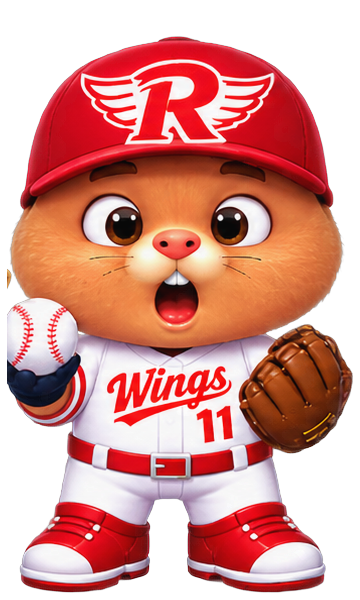
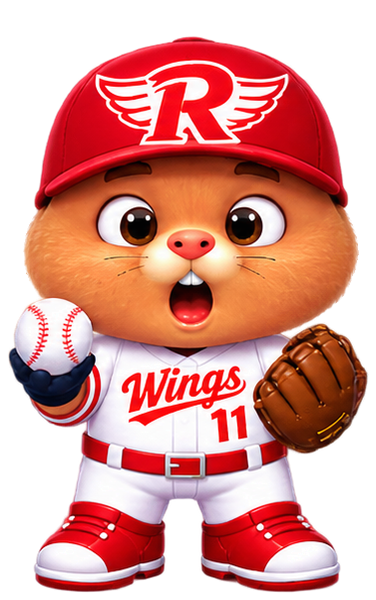
두더지팡: 코스튬 화면 정리(우측 테두리·상세 박스 꽉 채움·버튼 크기·토글 좌우 맞춤·캐릭 안 잘리게, 윙스 공 다시 오림), 토글 틈 없음·안쪽만 눌림 (v992)
Claude-Session: https://claude.ai/code/session_01GirAya7RX91uMc859bmUVe

diff --git a/mole/style.css b/mole/style.css
@@ -6466,9 +6466,17 @@ html, body, .cosmic-bg { background: #2a190d; }
 /* 토글버튼 = 나무 틀 + 초록 버튼, 선택 = 파란 네온 버튼 — 아이템·상점 공통(사용자 지정: "여기서 셋팅되면 다른곳도 동일") */
 .inv-tab, .shop-tab { border: 9px solid transparent !important; border-image: url('assets/costume2/tab-frame.png') 50 / 9px stretch !important; border-radius: 0;
   outline: none; box-shadow: none; overflow: visible; padding-top: 0; padding-bottom: 0;
-  background: url('assets/costume2/tab-green.png') center / calc(100% - 9px) calc(100% - 9px) no-repeat !important; background-origin: border-box !important; background-clip: border-box !important; }
-.inv-tabbar, .shop-tabbar { padding-top: 3px; padding-bottom: 3px; gap: 2px; }
-.inv-tab--on, .shop-tab--on { background-image: url('assets/costume2/tab-blue.png') !important; filter: drop-shadow(0 0 4px rgba(90, 200, 255, 0.9)); }
+  background: url('assets/costume2/tab-green.png') center / calc(100% - 4px) calc(100% - 4px) no-repeat, linear-gradient(180deg, #30ef6e, #04b954 55%, #037735) !important;
+  background-origin: border-box, padding-box !important; background-clip: border-box, padding-box !important; } /* 둥근 모서리 틈도 같은 색으로 꽉(v992) */
+.inv-tabbar, .shop-tabbar { padding-top: 3px; padding-bottom: 3px; gap: 0; }
+/* v992(사용자 지정): 누르면 나무 틀은 그대로, 안의 버튼만 눌림(작아지며 살짝 아래로) */
+.inv-tab, .shop-tab { transition: background-size 0.08s ease, background-position 0.08s ease !important; }
+.inv-tab:active, .shop-tab:active { transform: none !important; } /* v992: 버튼은 틀에 꽉 찬 채로 — 크기 안 줄이고 안쪽만 어둡게 눌림 */
+.inv-tab:active::before, .shop-tab:active::before { display: block; content: ''; position: absolute; inset: 0; left: 0; right: 0; top: 0; height: auto; z-index: 1; pointer-events: none;
+  border-radius: 0; background: rgba(0, 0, 0, 0.16); box-shadow: inset 0 5px 7px rgba(0, 0, 0, 0.45); }
+.inv-tab > *, .shop-tab > * { transition: transform 0.08s ease; }
+.inv-tab:active > *, .shop-tab:active > * { transform: translateY(2px) scale(0.92); }
+.inv-tab--on, .shop-tab--on { background-image: url('assets/costume2/tab-blue.png'), linear-gradient(180deg, #02c1fc, #0071fb 55%, #0049fb) !important; filter: drop-shadow(0 0 4px rgba(90, 200, 255, 0.9)); }
 .inv-tab::before, .shop-tab::before, .inv-tab::after, .shop-tab::after { display: none; }
 /* 코스튬 탭 배경 = 나무 오두막(선반·랜턴·모자·야구공) */
 #inventory-screen[data-tab="costume"]::before { inset: 0; border-image: none; border-width: 0; background: url('assets/costume2/bg-cabin.jpg') center top / 100% 100% no-repeat; filter: none; }
@@ -6489,12 +6497,18 @@ html, body, .cosmic-bg { background: #2a190d; }
 /* 상세: 왼쪽 = 나무 틀 + 팀 경기장 + 캐릭터, 오른쪽 = 나뭇잎 나무 틀 + 가죽 */
 #inventory-screen[data-tab="costume"] .cos-detail { position: relative; background: none; border: 0; box-shadow: none; border-radius: 0; gap: 0; padding: 0; min-height: 30%; }
 #inventory-screen[data-tab="costume"] .cos-detail::before { content: ''; position: absolute; left: 29%; right: 0; top: 0; bottom: 0; z-index: 0;
-  border: 12px solid transparent; border-image: url('assets/costume2/box-frame-w.png') 60 / 12px stretch;
-  background: url('assets/costume2/leather-w.png') center / 100% 100% no-repeat; background-clip: padding-box; }
+  border: 12px solid transparent; border-image: url('assets/costume2/box-frame-s.png') 50 / 12px stretch; /* v992: 잎 달린 틀은 오른쪽 변에 잎이 길게 늘어나서 → 잎 없는 틀 + 잎 따로 */
+  background: url('assets/costume2/leather-w.png') center / calc(100% - 10px) calc(100% - 10px) no-repeat; background-origin: border-box; background-clip: border-box; }
+#inventory-screen[data-tab="costume"] .cos-detail::after { content: ''; position: absolute; left: 29%; right: 0; top: 0; bottom: 0; z-index: 2; pointer-events: none;
+  background: url('assets/costume2/leaf-a.png') left 3px top 3px / 24px auto no-repeat, url('assets/costume2/leaf-b.png') right 2px top 2px / 24px auto no-repeat; }
 #inventory-screen[data-tab="costume"] .cos-detail > * { position: relative; z-index: 1; }
-#inventory-screen[data-tab="costume"] .cos-detail-char-wrap { width: 28%; margin: 0 1% 0 0; box-sizing: border-box; overflow: hidden;
+#inventory-screen[data-tab="costume"] .cos-detail-char-wrap { width: 28%; margin: 0 1% 0 0; box-sizing: border-box; overflow: hidden; }
+#inventory-screen[data-tab="costume"] .cos-detail-char-wrap::after { content: ''; position: absolute; inset: 0; z-index: 3; pointer-events: none;
   border: 10px solid transparent; border-image: url('assets/costume2/box-frame-s.png') 50 / 10px stretch; }
-#inventory-screen[data-tab="costume"] .cos-detail-bg { position: absolute; inset: 0; width: 100%; height: 100%; object-fit: cover; }
+#inventory-screen[data-tab="costume"] .cos-detail-bg { position: absolute; inset: 4px; width: calc(100% - 8px); height: calc(100% - 8px); object-fit: cover; }
+#inventory-screen[data-tab="costume"] .cos-detail-char { z-index: 2; width: auto; height: calc(100% - 14px); max-width: 92%; object-fit: contain; object-position: 50% 100%; bottom: 7px; } /* 액자 높이에 맞춰 — 모자가 위로 안 잘리게 */
+#inventory-screen[data-tab="costume"] .cos-detail-char[src*="mount_stars"] { scale: 0.95; transform-origin: 50% 100%; } /* v992: 모자 잘림 → 5% 작게 */
+#inventory-screen[data-tab="costume"] .inv-body { overflow: hidden; }
 #inventory-screen[data-tab="costume"] .cos-detail-mid { padding: 12px 0 10px 14px; gap: 4px; justify-content: flex-start; }
 #inventory-screen[data-tab="costume"] .cos-detail-emblem { width: 30px; height: 30px; }
 #inventory-screen[data-tab="costume"] .cos-detail-name { font-family: 'Jua', sans-serif; font-weight: 400; font-size: 1.15rem; color: #fff; -webkit-text-stroke: 3px #2a1406; paint-order: stroke fill; }
@@ -6505,8 +6519,14 @@ html, body, .cosmic-bg { background: #2a190d; }
 #inventory-screen[data-tab="costume"] .cos-detail-effect-val { color: #e0201a; }
 #inventory-screen[data-tab="costume"] .cos-detail-acquire { color: #fff3d6; opacity: 1; display: flex; align-items: center; gap: 4px; }
 #inventory-screen[data-tab="costume"] .cos-detail-acquire::before { content: ''; flex: 0 0 auto; width: 12px; height: 12px; background: url('assets/costume/trophy.png') center / contain no-repeat; }
-#inventory-screen[data-tab="costume"] .cos-detail-btn { flex: 0 0 22%; margin-right: 12px; border-radius: 14px; font-family: 'Jua', sans-serif; font-weight: 400; font-size: 0.85rem; color: #fff;
+#inventory-screen[data-tab="costume"] .cos-detail-btn { flex: 0 0 19%; margin: 0 16px 0 6px; font-size: 0.78rem !important; border-radius: 14px; font-family: 'Jua', sans-serif; font-weight: 400; font-size: 0.85rem; color: #fff;
   background: linear-gradient(180deg, #3fd86a, #1fa848); border: 2px solid #e8ffe8; box-shadow: 0 3px 0 #146b30; -webkit-text-stroke: 2px #145a28; paint-order: stroke fill; }
 #inventory-screen[data-tab="costume"] .cos-detail-btn:disabled { opacity: 1; background: linear-gradient(180deg, #c9c9c9, #8e8e8e); border-color: #f2f2f2; box-shadow: 0 3px 0 #5c5c5c; -webkit-text-stroke-color: #555; }
 #inventory-screen[data-tab="costume"] .cos-detail-btn { gap: 3px; }
 #inventory-screen[data-tab="costume"] .cos-detail-btn::before { content: ''; flex: 0 0 auto; width: 20px; height: 20px; background: url('assets/costume/tshirt.png') center / contain no-repeat; }
+/* v992(사용자 지정): 카드·상세 사진·상세 설명 박스를 나무 테두리 안쪽, 토글박스 좌우 끝에 맞춤(토글바 padding 10px) */
+#inventory-screen[data-tab="costume"] .cos-wrap { width: calc(100% - 20px); }
+#inventory-screen[data-tab="costume"] .cos-cards { padding-left: 0; padding-right: 0; }
+#inventory-screen[data-tab="costume"] .cos-detail-effect { padding-left: 7px; padding-right: 7px; }
+#inventory-screen[data-tab="costume"] .cos-detail-effect-row { padding: 3px 4px; gap: 2px; letter-spacing: -0.03em; }
+#inventory-screen[data-tab="costume"] .cos-card-char[src*="red_wings"] { width: 100%; } /* v992: 공 안 잘리게 다시 오린 그림(폭 360→376) — 다른 팀과 같은 크기로 */

diff --git a/mole/index.html b/mole/index.html
@@ -900,7 +900,7 @@
         <!-- 배포 버전 표식(스크린샷으로 어느 버전인지 확인용) — 화면 좌하단에 두면 다른 UI에
              가려 잘 안 보인다는 사용자 지적으로, 하트 아이콘(다이얼패드 1번 칸) 바로 위로 이동. -->
         <div class="h2-preload" aria-hidden="true"></div><!-- v951: 게임 중 버튼 색(초록·노랑·빨강·분홍·회색) 미리 읽어 두기 — 처음 바뀔 때 깜빡임 방지 -->
-        <div id="build-tag" aria-hidden="true">v991</div>
+        <div id="build-tag" aria-hidden="true">v992</div>
         <!-- 피버타임(터치캐치 보너스타임) 전광판 — 버튼보드 자리를 통째로 덮는 오버레이,
              평소엔 hidden, 피버 중에만 콤보/잔여시간 표시(사용자 지정: "전광판처럼"). -->
         <div id="fever-scoreboard" class="fever-scoreboard" hidden>
@@ -1160,7 +1160,7 @@ window.FGH.rollOut = function (el, done) {
       } else {
         // ?v= 로 매 배포마다 URL을 바꿔서 GitHub Pages의 sw.js 캐시(max-age=600)를 무조건 우회 —
         // 안 그러면 배포 직후에도 최대 10분간 옛 서비스워커가 안 갈리는 경우가 있었음(사용자 보고).
-        navigator.serviceWorker.register('sw.js?v=991').catch(function () {});
+        navigator.serviceWorker.register('sw.js?v=992').catch(function () {});
       }
     });
   }

diff --git a/mole/sw.js b/mole/sw.js
@@ -3,7 +3,7 @@
 // 폴백 전용으로만 갱신한다. (예전엔 stale-while-revalidate라 배포해도 "다음 실행"에야
 // 반영돼 사용자 체감 대기가 길었음 — 온라인=항상 최신, 오프라인=마지막 캐시로 변경.)
 // SHELL 목록 자체가 바뀔 때만 CACHE 를 올린다.
-const CACHE = 'mole-game-v991';
+const CACHE = 'mole-game-v992';
 
 // 화면별 BGM(audio/bgm-*.mp3)은 v275 부터 SHELL 에 포함 — 기본 켜짐(v272)이라 항상 필요하고,
 // 캐시가 안 돼 있으면 오프라인/느린망에서 재생 실패했음.
@@ -76,6 +76,8 @@ const SHELL = [
   './assets/costume2/box-frame-w.png',
   './assets/costume2/leather-w.png',
   './assets/costume2/parchment.png',
+  './assets/costume2/leaf-a.png',
+  './assets/costume2/leaf-b.png',
   './assets/costume/logo.png',
   './assets/costume/bg-stadium.jpg',
   './assets/costume/clock.png',
